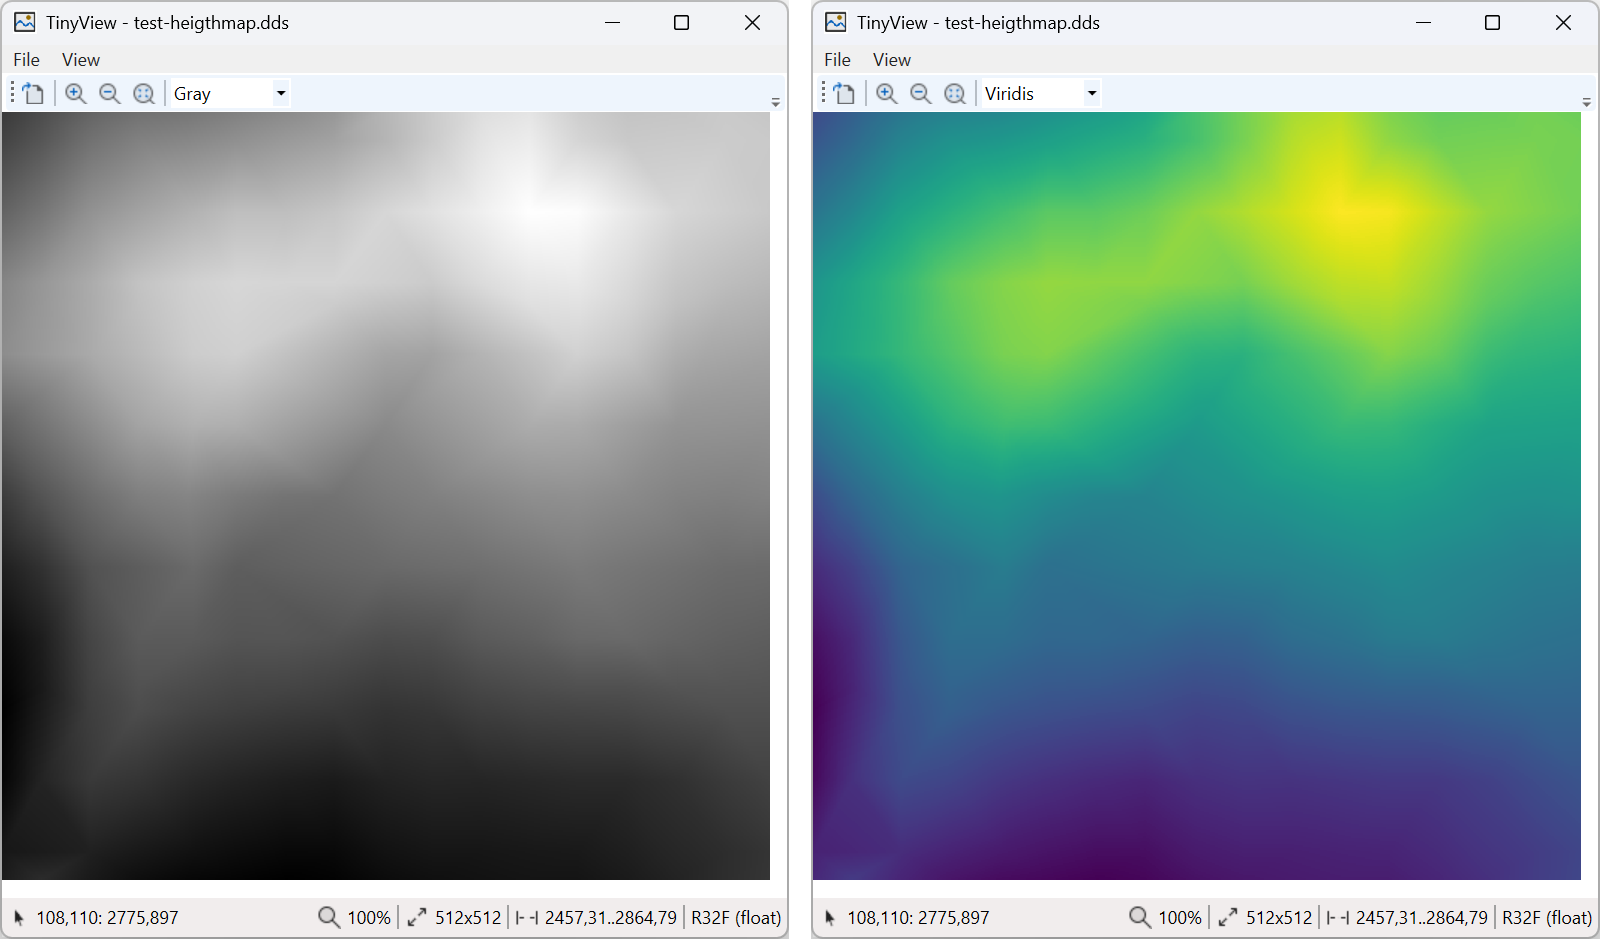
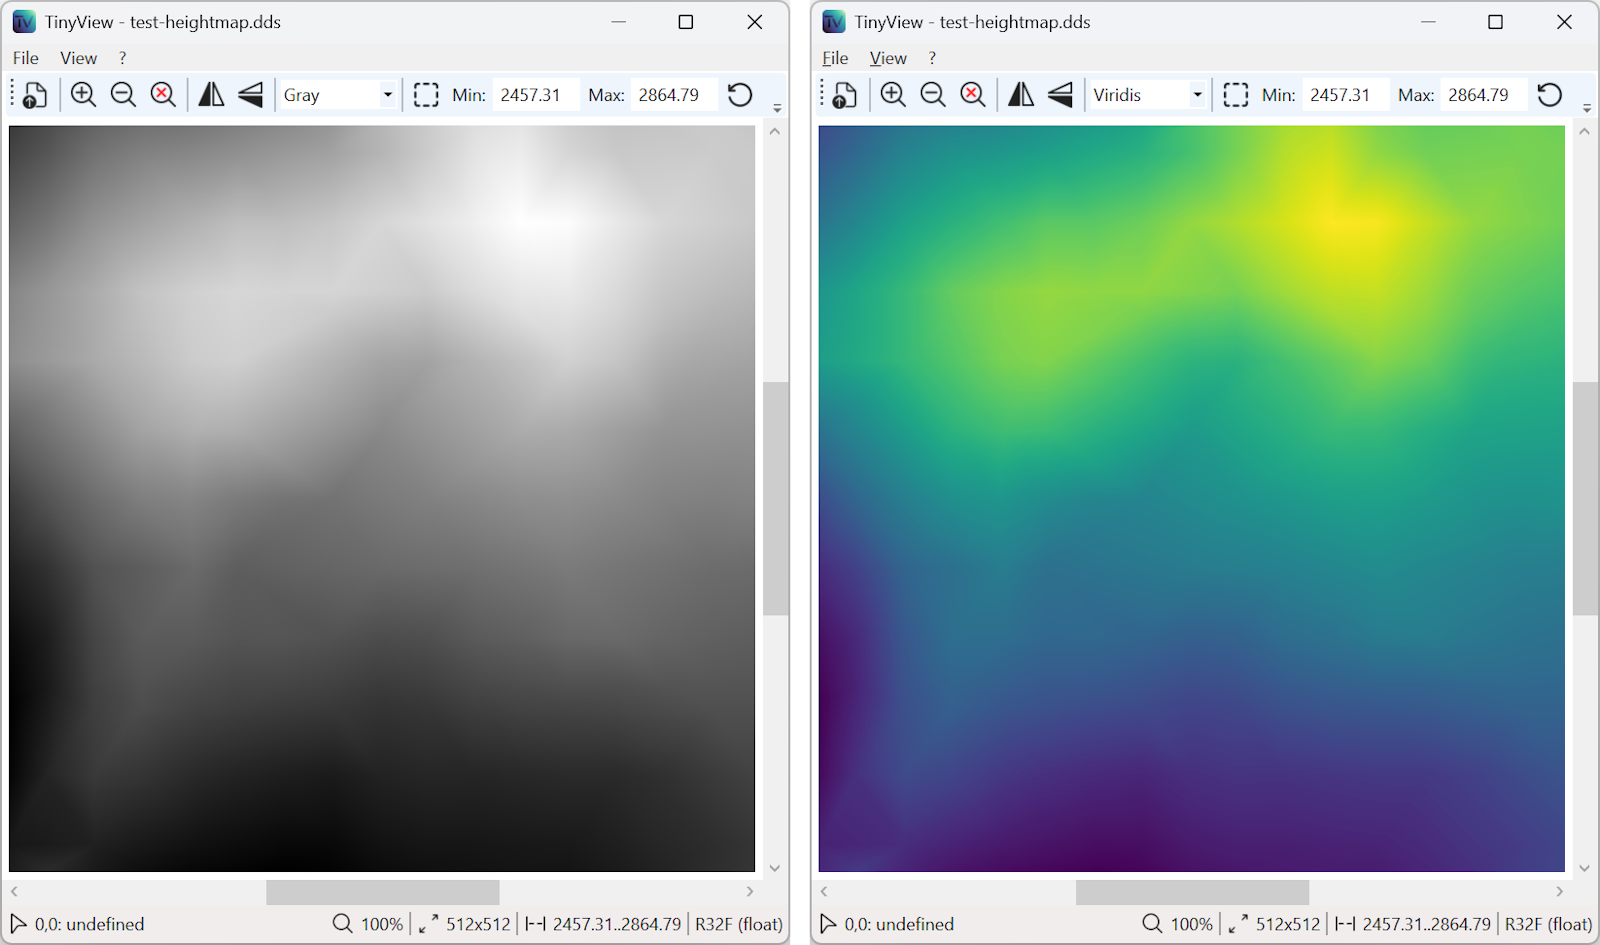
[Docs] Updated Readme and Changelog

Changed region(s): [[0.0, 0.0, 1.0, 0.9883], [0.4062, 0.0, 0.4375, 0.0309]]

diff --git a/Docs/Changelog.md b/Docs/Changelog.md
@@ -7,6 +7,27 @@ title: Changelog
 
 All notable changes to TinyView are documented in this file.
 
+## v1.3.0 - 2026-04-25
+
+### User-Visible Changes
+
+- Added dynamic range scaling based on a rectangular selection
+- Added inputs to manually define the display min/max values
+- Changed panning from left to right mouse button
+- Changed keyboard zoom commands to anchor at the image center
+- Updated README
+
+### Internal Changes
+
+- Removed unintended stretch property from button icon
+- Added a badge with link to the latest release
+- Added more tests
+
+### Dependency Updates
+
+- Bumped Magick.NET-Q16-AnyCPU from 14.11.1 to 14.12.0
+- Bumped Microsoft.NET.Test.Sdk from 18.3.0 to 18.4.0
+
 ## v1.2.0 - 2026-03-28
 
 ### User-Visible Changes

diff --git a/Docs/index.md b/Docs/index.md
@@ -26,9 +26,11 @@ Hovering over an area will display the raw pixel value under the cursor in the s
 
 - Open files by drag & drop
 - Zoom using keyboard shortcuts and mouse wheel
-- Pan around by holding the left mouse button
+- Pan around by holding the right mouse button
 - Flip the image horizontally and vertically
 - Automatic dynamic range scaling adjusts pixel values for screen display
+- Dynamic range scaling based on a rectangular selection
+- Manually define the display min/max range
 - Multiple color maps, including colorblind-friendly palettes
 - Pixel inspection shows raw pixel values in the status bar on mouse over
 

diff --git a/README.md b/README.md
@@ -23,9 +23,11 @@ Hovering over an area will display the raw pixel value under the cursor in the s
 
 - Open files by drag & drop
 - Zoom using keyboard shortcuts and mouse wheel
-- Pan around by holding the left mouse button
+- Pan around by holding the right mouse button
 - Flip the image horizontally and vertically
 - Automatic dynamic range scaling adjusts pixel values for screen display
+- Dynamic range scaling based on a rectangular selection
+- Manually define the display min/max range
 - Multiple color maps, including colorblind-friendly palettes
 - Pixel inspection shows raw pixel values in the status bar on mouse over
 